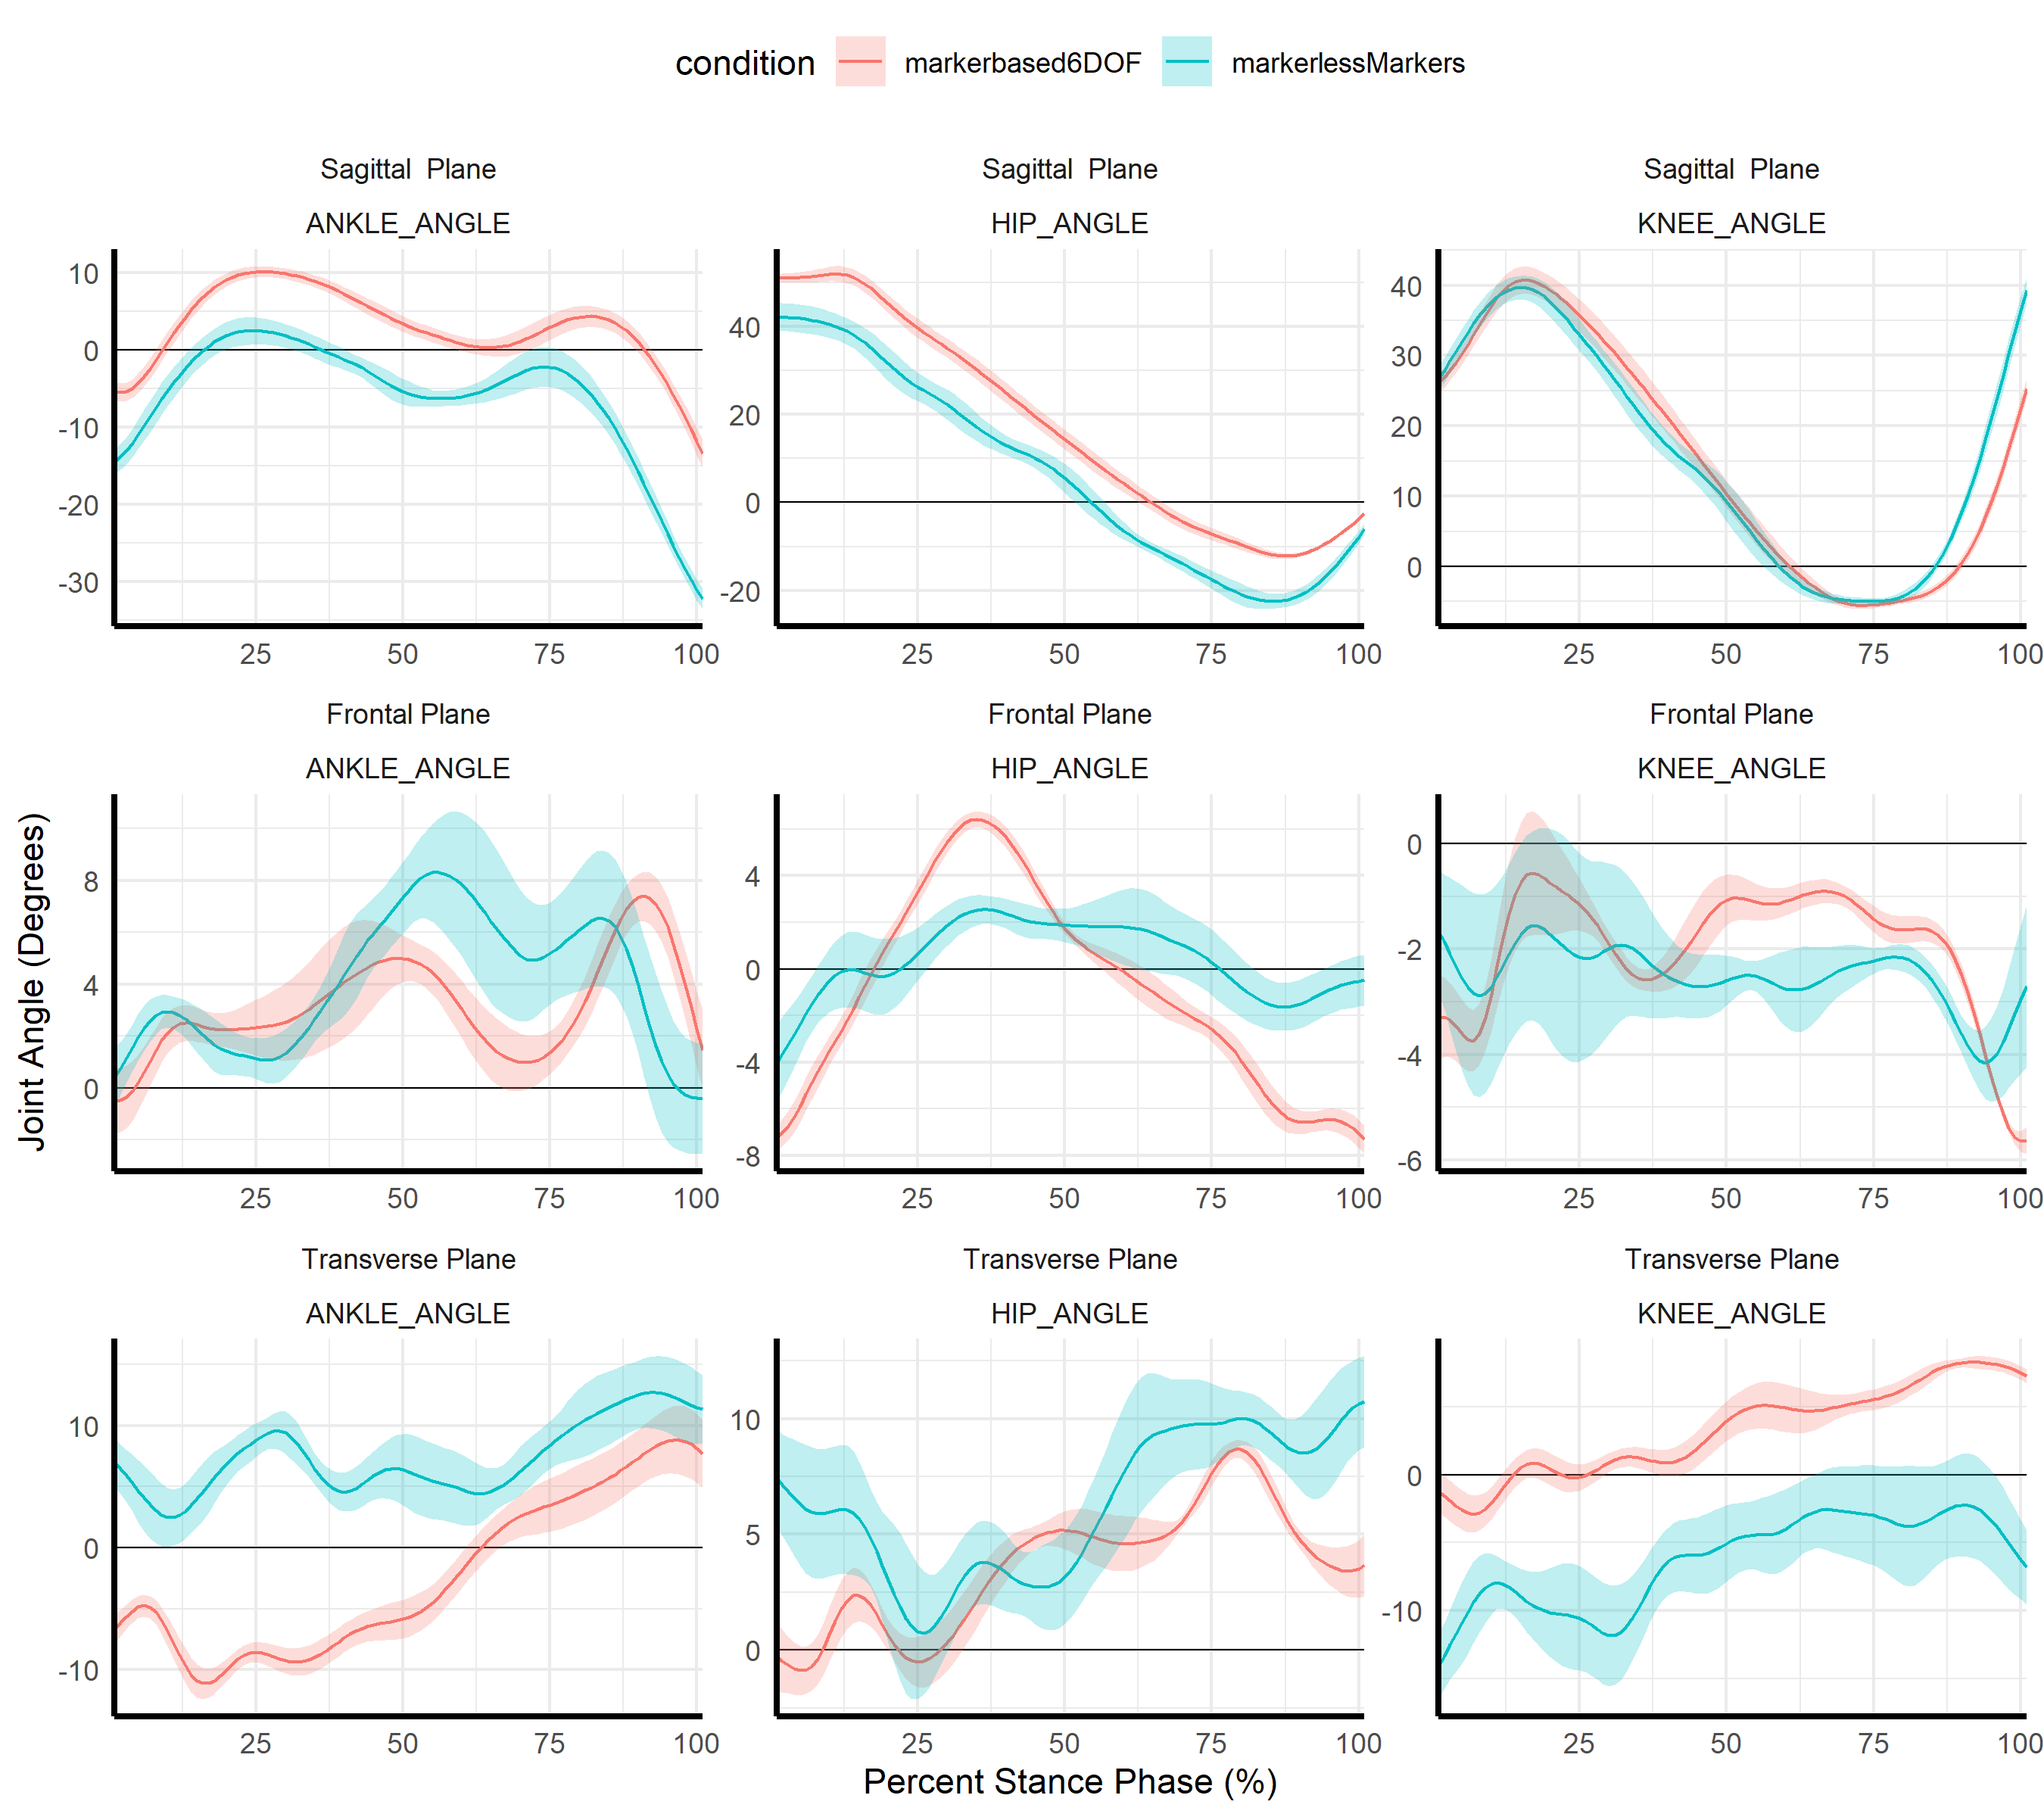
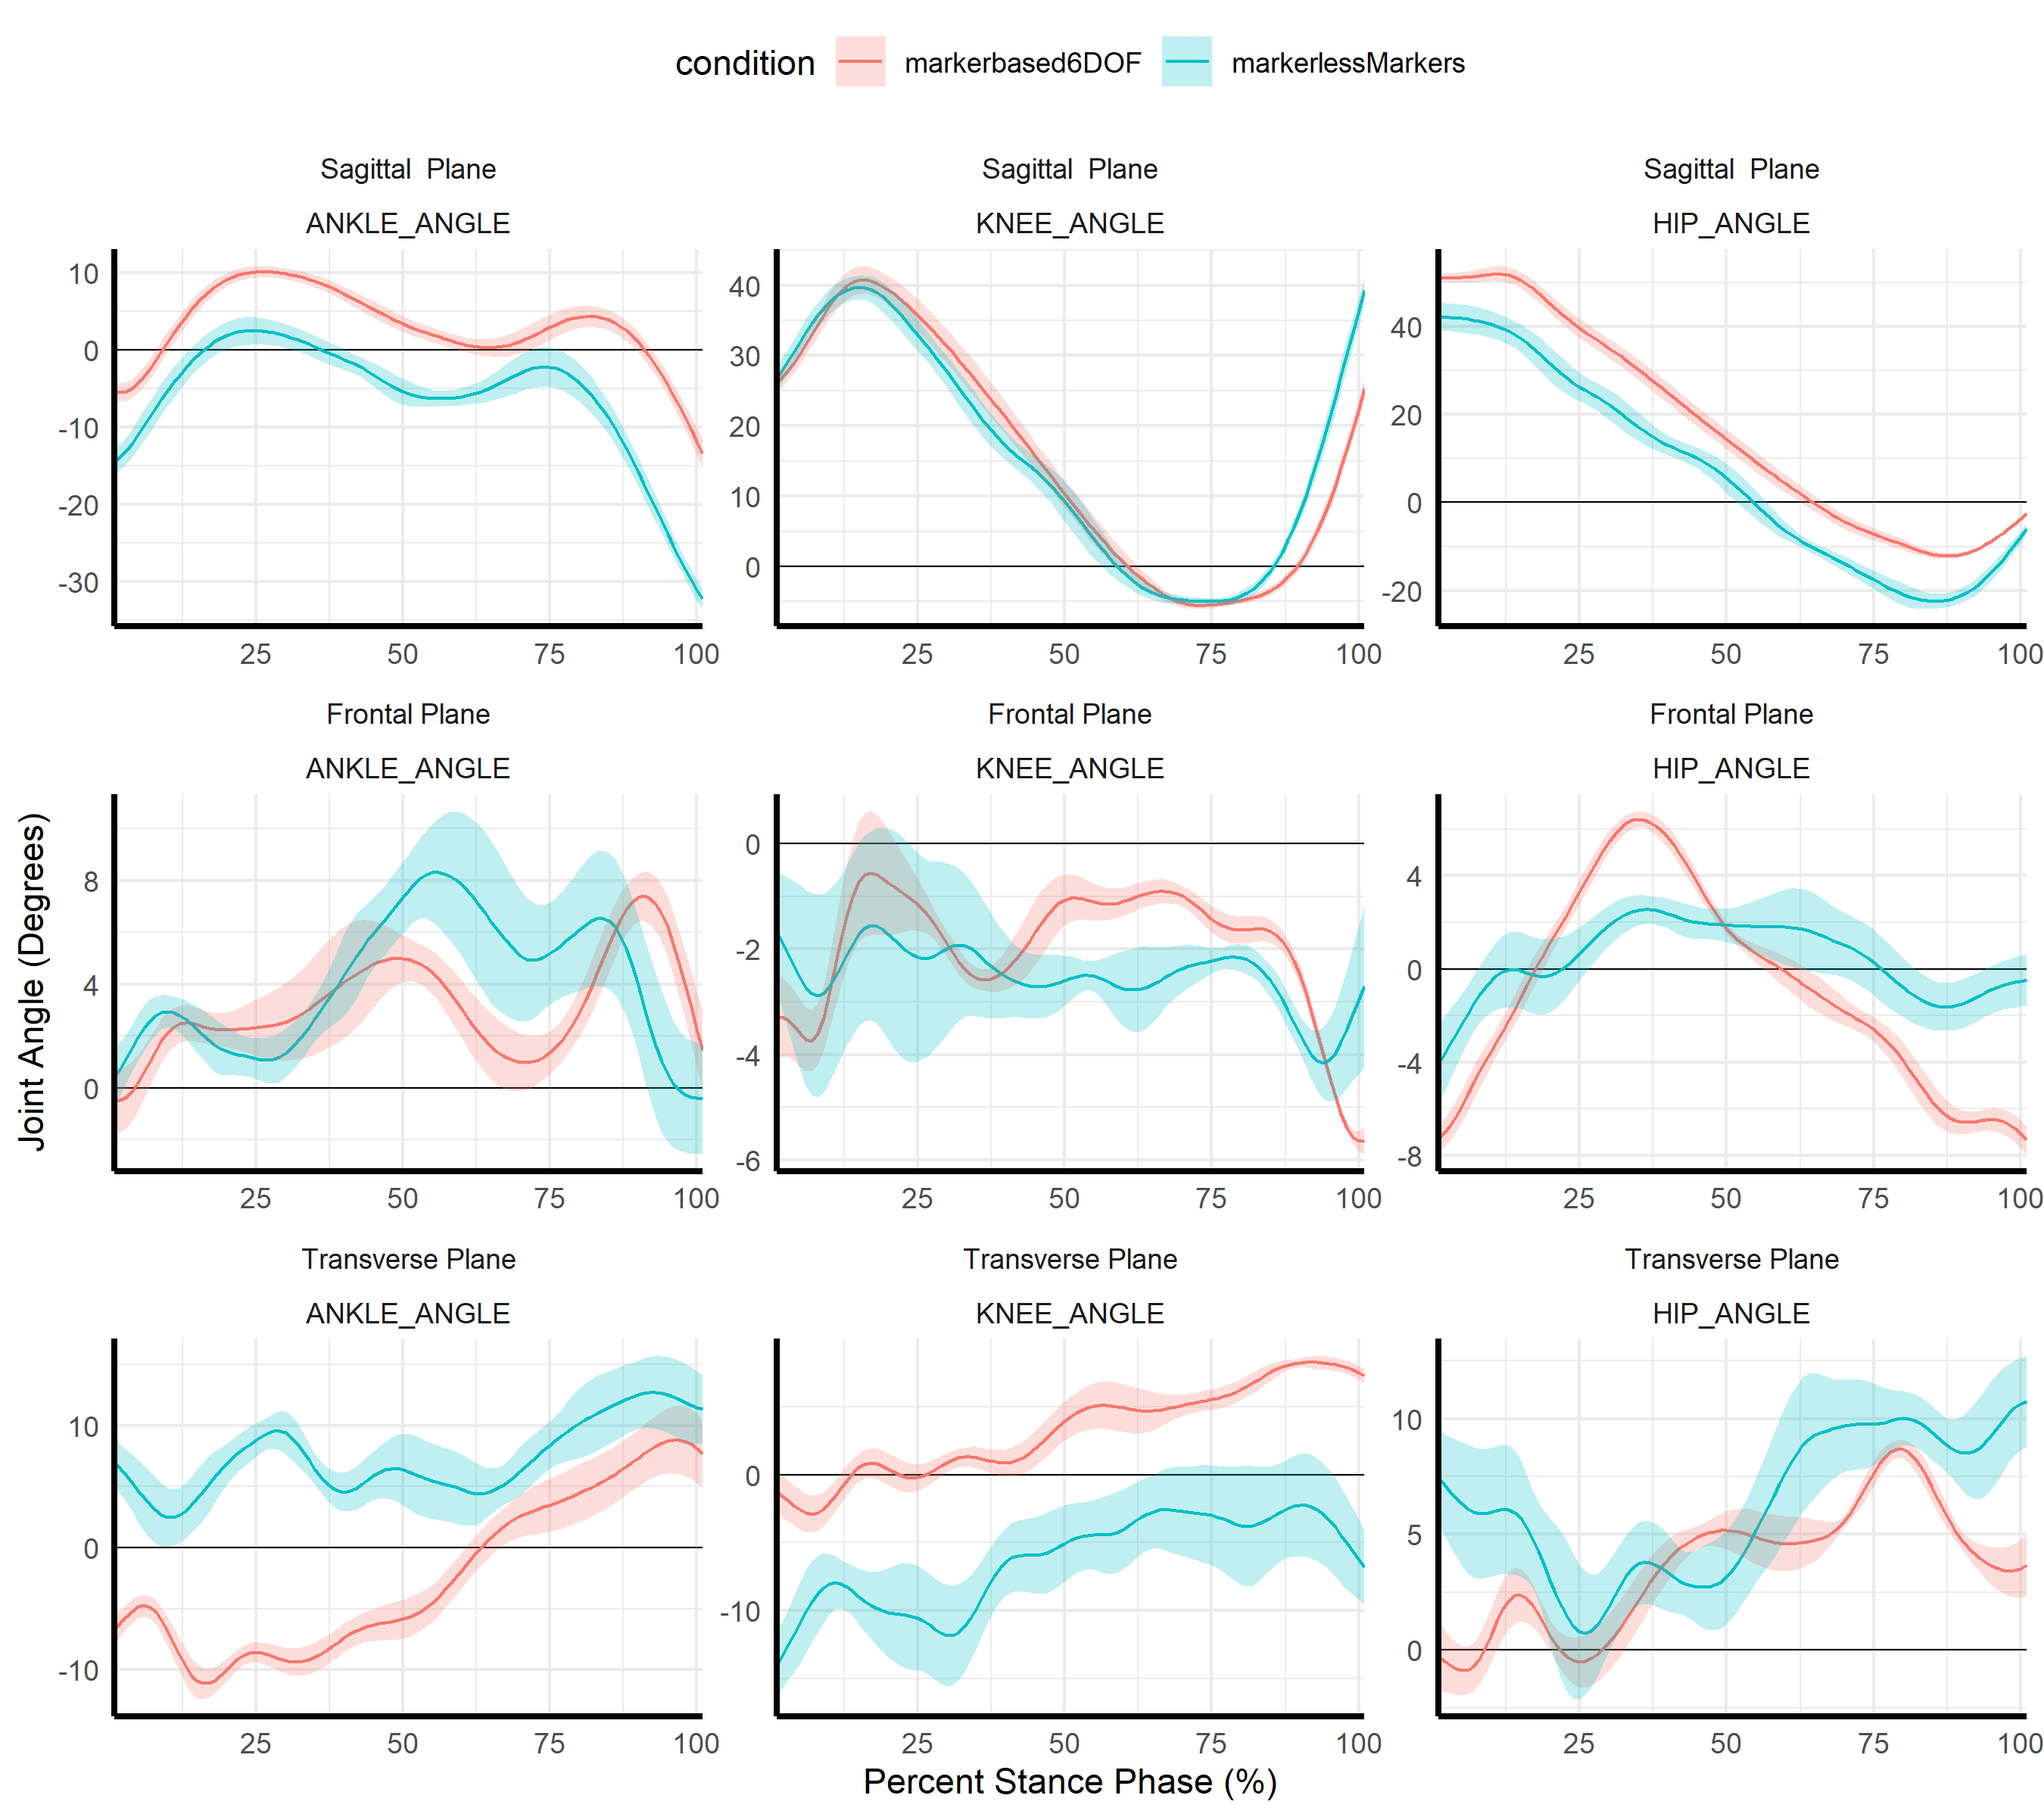
added minimal interpretation summary and figure order changes

diff --git a/README.md b/README.md
@@ -1,12 +1,24 @@
 MarkerlessCP
 ================
 Jereme Outerleys
-2021-07-30
+Last compiled on 2021-08-26
 
 ## Summary
 
-A participant with CP came into the HMRL on July 28, 2021. Overground
-walking gait was collected using markerless and markerbased systems.
+A participant with Cerebral Palsy (CP) came into the HMRL on July 28,
+2021. Overground walking gait was collected using markerless and
+markerbased systems. These pilot data were helpful in assesing the
+performance of a markerless system (Theia Markerless, Kingston, Ontario)
+in a population where clinical gait analyses are typically performed,
+with markerbased systems. In general, clinically important features of
+kinematic and kinetic waveforms showed clear agreement with markerbased
+data. This was particularly evident in sagittal plane kinematics and
+kinetics but also the knee adduction moment. In addition, the markerless
+system showed logical biomechanical difference in AFO vs. non-AFO gait
+trials, where reduced plantarflexion was evident in the AFO condition.
+
+## Collection Details
+
 Markerless data were collected with 8 Sony RX0II cameras with a frame
 rate of 120 Hz (actual 119.88 Hz). Markerbased data were collected using
 11 Qualisys Oqus cameras with a frame rate of 120 Hz. The markerset used
@@ -20,14 +32,12 @@ The following conditions were collected
     orthoses). Note: the AFOs are attached to a different pair of
     sneakers.
 3.  **markerbased6DOF**: markerbased data collected concurrently with
-    the markerlessMarkers condition. The markerset set used was
-    sufficient to build a 6DOF lower body model.
+    the markerlessMarkers condition. The markerset used was sufficient
+    to build a 6DOF lower body model.
 4.  **markerlessMarkers**: the participant with markers attached. The
     participant wore their own shoes (not AFOs) and a sports bra.
 5.  **markerbasedIK**: the markerbased data with an IK model to best
     match the markerless. 3DOF hip, 3DOF knee, and 6DOF ankle.
-
-## Collection Details
 
 Approximately 6 gait trials were collected per condition. Stomps were
 performed prior to each gait trial to synchronize motion data with force
@@ -99,7 +109,10 @@ df <- list.files(file.path(subList,'results'), pattern = "*.txt", full.names = T
 # The signal_names are named in visual3D as LANKLE_ANGLE, RANKLE_ANGLE, etc.
 # Since we are using long data format and assign the side during import
 # we will remove the first letter of the signal_name
-df$signal_names <- substring(df$signal_names, 2)
+df$signal_names <- as.factor(substring(df$signal_names, 2))
+
+# Get factors in a specific plotting order
+df$signal_names <- fct_relevel(df$signal_names, "ANKLE_ANGLE", "KNEE_ANGLE", "HIP_ANGLE","ANKLE_MOMENT", "KNEE_MOMENT", "HIP_MOMENT")
 
 # All data were exported normalized to stance phase.
 # Incomplete data is due to tracking errors, I want to 
@@ -139,11 +152,31 @@ df %>%
   ylab('Joint Angle (Degrees)')
 ```
 
-<img src="README_files/figure-gfm/kinematics_right-1.png" style="display: block; margin: auto;" />
+<div class="figure" style="text-align: center">
+
+<img src="README_files/figure-gfm/kinematics_right-1.png" alt="Right lower-limb joint kinematics. Note: Dorsi-flexion, knee flexion, and hip flexion are positive (+). Ankle inversion, knee adduction and hip adduction is positive (+). Toe-in, knee internal rotation, and hip internal rotation are positive (+)."  />
+<p class="caption">
+Right lower-limb joint kinematics. Note: Dorsi-flexion, knee flexion,
+and hip flexion are positive (+). Ankle inversion, knee adduction and
+hip adduction is positive (+). Toe-in, knee internal rotation, and hip
+internal rotation are positive (+).
+</p>
+
+</div>
 
 ### Left Side
 
-<img src="README_files/figure-gfm/kinematics_left-1.png" style="display: block; margin: auto;" />
+<div class="figure" style="text-align: center">
+
+<img src="README_files/figure-gfm/kinematics_left-1.png" alt="Left lower-limb joint kinematics. Note: Dorsi-flexion, knee flexion, and hip flexion are positive (+). Ankle inversion, knee adduction and hip adduction is positive (+). Toe-in, knee internal rotation, and hip internal rotation are positive (+)."  />
+<p class="caption">
+Left lower-limb joint kinematics. Note: Dorsi-flexion, knee flexion, and
+hip flexion are positive (+). Ankle inversion, knee adduction and hip
+adduction is positive (+). Toe-in, knee internal rotation, and hip
+internal rotation are positive (+).
+</p>
+
+</div>
 
 ## Kinetics
 
@@ -163,7 +196,7 @@ df %>%
 
 Since data from the markerbased were originally modeled using full 6DOF,
 I was interested in trying an IK model in Visual3D to best match the
-Theia IK. 3DOF Hip, 3DOF knee, and 6DOF ankle.
+Theia IK. 3DOF Hip, 3DOF knee, and 6DOF ankle (“Free Feet”).
 
 ### Right Side
 
@@ -219,6 +252,16 @@ platform contacts for left side.
 
 ### Right Side
 
-<img src="README_files/figure-gfm/kinematics_afo_right-1.png" style="display: block; margin: auto;" />
+<div class="figure" style="text-align: center">
+
+<img src="README_files/figure-gfm/kinematics_afo_right-1.png" alt="Right lower-limb joint kinematics. Note: Dorsi-flexion, knee flexion, and hip flexion are positive (+). Ankle inversion, knee adduction and hip adduction is positive (+). Toe-in, knee internal rotation, and hip internal rotation are positive (+)."  />
+<p class="caption">
+Right lower-limb joint kinematics. Note: Dorsi-flexion, knee flexion,
+and hip flexion are positive (+). Ankle inversion, knee adduction and
+hip adduction is positive (+). Toe-in, knee internal rotation, and hip
+internal rotation are positive (+).
+</p>
+
+</div>
 
 <img src="README_files/figure-gfm/kinetics_afo_right-1.png" style="display: block; margin: auto;" />
